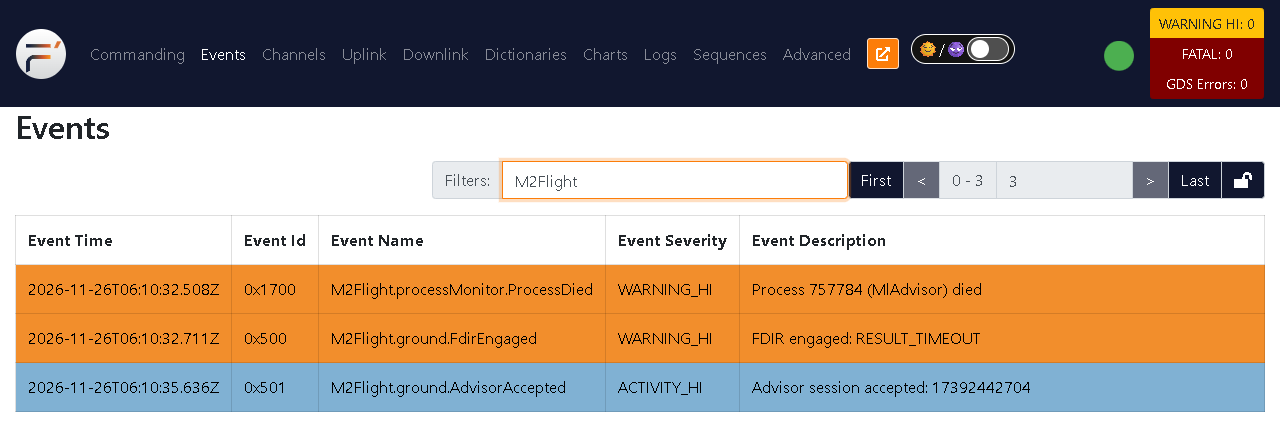
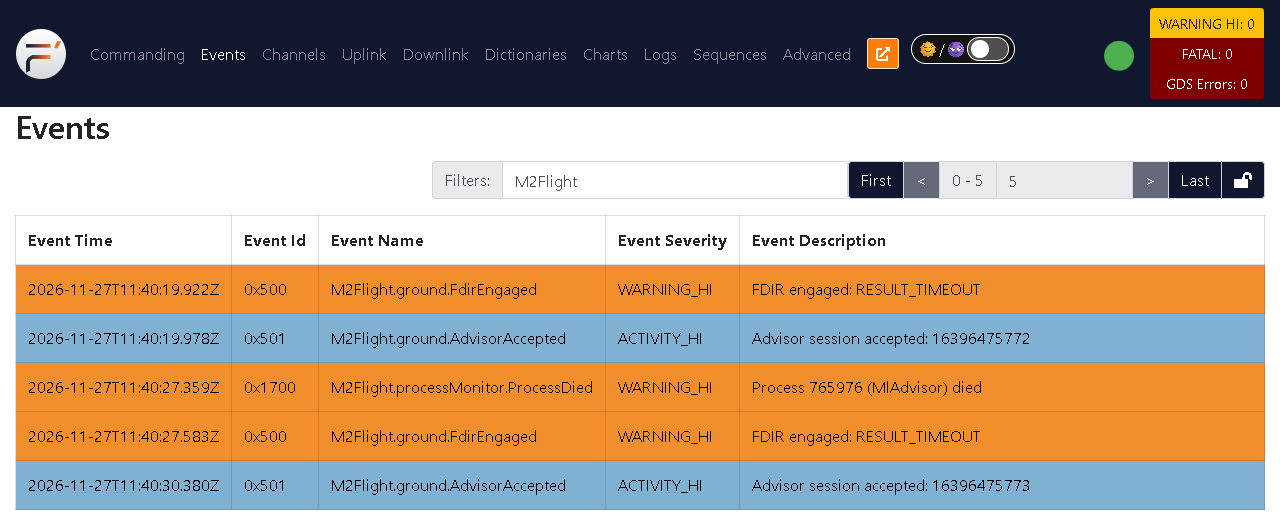
Refresh both QNX Codelabs at a verified commit (D94, I-99)
Pin the Ref and ADCS Codelabs to 752c5d4, which both refreshed runs
used, and replace the screenshots from those runs. Explain the
first-boot disk message, leftover GDS cleanup and the update-on-change
baseline channels, link the MathComponent adoption, and drop the E11
prerequisite now that the submission leaves native KVM out.

diff --git a/docs/codelab/fprime-ref-on-qnx/fprime-ref-on-qnx.md b/docs/codelab/fprime-ref-on-qnx/fprime-ref-on-qnx.md
@@ -15,11 +15,11 @@ feedback_link: https://github.com/qnx/codelabs/issues
 ## Overview
 Duration: 3:00
 
-**Draft rehearsal** ran on 2026-11-26 at fprime-qnx commit `37db15be76f60b5c5084032d9ec1325be0885439` with QNX SDP 8.0.6, Ubuntu 24.04 under WSL2, and a QNX 8.0.0 x86-64 QEMU/KVM guest. Use the Codelab review checkout for its updated GDS checks.
+**Last verified** on 2026-11-27 at fprime-qnx commit `752c5d4d7786767744440089a1e2224db7e9e145` with QNX SDP 8.0.6, Ubuntu 24.04 under WSL2, and a QNX 8.0.0 x86-64 QEMU/KVM guest.
 
 [F Prime](https://github.com/nasa/fprime) is the open-source flight software framework from NASA's Jet Propulsion Laboratory. Its `Ref` deployment is the reference application that ships with the framework: a set of components connected into a topology, driven by rate groups, and controlled from the F Prime ground data system (GDS).
 
-In this codelab you take the upstream `Ref` from the pinned F Prime release, apply a small adoption patch, cross-build it for QNX 8.0 with the [fprime-qnx](https://github.com/D1349375/fprime-qnx/tree/37db15be76f60b5c5084032d9ec1325be0885439) platform library, and run it in a QNX 8.0 x86-64 guest under QEMU/KVM. Then you send a command from the GDS on your Linux host and watch the answer come back from QNX.
+In this codelab you take the upstream `Ref` from the pinned F Prime release, apply a small adoption patch, cross-build it for QNX 8.0 with the [fprime-qnx](https://github.com/D1349375/fprime-qnx/tree/752c5d4d7786767744440089a1e2224db7e9e145) platform library, and run it in a QNX 8.0 x86-64 guest under QEMU/KVM. Then you send a command from the GDS on your Linux host and watch the answer come back from QNX.
 
 ### What you'll build
 
@@ -49,13 +49,13 @@ F Prime on QNX is an independent project. This exercise covers a QNX 8.0.0 x86-6
 ## System Set Up
 Duration: 15:00
 
-The project keeps its host setup instructions in one place, the [fprime-qnx host setup guide](https://github.com/D1349375/fprime-qnx/blob/37db15be76f60b5c5084032d9ec1325be0885439/docs/en/host-setup.md). Follow it for the package list, the guest network and the QNX SDK. This step summarizes what it sets up and how to check each part.
+The project keeps its host setup instructions in one place, the [fprime-qnx host setup guide](https://github.com/D1349375/fprime-qnx/blob/752c5d4d7786767744440089a1e2224db7e9e145/docs/en/host-setup.md). Follow it for the package list, the guest network and the QNX SDK. This step summarizes what it sets up and how to check each part.
 
 Run every command in this codelab in an Ubuntu 24.04 shell. Keep the checkout on the Linux filesystem (for example under `$HOME`), not on a Windows drive mounted under `/mnt`. On Windows, use Ubuntu 24.04 under [WSL](https://learn.microsoft.com/en-us/windows/wsl/install) version `2` with [systemd enabled](https://learn.microsoft.com/en-us/windows/wsl/systemd).
 
 ### Linux tools, KVM and the guest network
 
-Install the packages listed under [Linux tools and guest network](https://github.com/D1349375/fprime-qnx/blob/37db15be76f60b5c5084032d9ec1325be0885439/docs/en/host-setup.md#linux-tools-and-guest-network). They include the compilers and build tools, Python, the SSH client, QEMU and libvirt.
+Install the packages listed under [Linux tools and guest network](https://github.com/D1349375/fprime-qnx/blob/752c5d4d7786767744440089a1e2224db7e9e145/docs/en/host-setup.md#linux-tools-and-guest-network). They include the compilers and build tools, Python, the SSH client, QEMU and libvirt.
 
 The QNX guest gets its address from the libvirt `default` network and reaches your host through the `virbr0` bridge. Start that network and allow the QEMU bridge helper to use `virbr0` as shown in the [QSTI on QEMU using WSL codelab](https://qnx.github.io/codelabs/qsti-qemu-on-wsl/index.html). The same steps apply to native Ubuntu.
 
@@ -69,7 +69,7 @@ ip -brief address show virbr0
 
 ### QNX SDP 8.0
 
-Install QNX SDP 8.0 with the x86-64 target through QNX Software Center, as described under [QNX SDK and F Prime tools](https://github.com/D1349375/fprime-qnx/blob/37db15be76f60b5c5084032d9ec1325be0885439/docs/en/host-setup.md#qnx-sdk-and-f-prime-tools). The project was verified with SDP 8.0.6. The installation must provide `qcc`, `q++` and `mkqnximage`. The examples assume the location `$HOME/qnx800`.
+Install QNX SDP 8.0 with the x86-64 target through QNX Software Center, as described under [QNX SDK and F Prime tools](https://github.com/D1349375/fprime-qnx/blob/752c5d4d7786767744440089a1e2224db7e9e145/docs/en/host-setup.md#qnx-sdk-and-f-prime-tools). The project was verified with SDP 8.0.6. The installation must provide `qcc`, `q++` and `mkqnximage`. The examples assume the location `$HOME/qnx800`.
 
 ```bash
 source "$HOME/qnx800/qnxsdp-env.sh"
@@ -89,12 +89,12 @@ Duration: 10:00
 
 ### Clone the port at a known revision
 
-The repository pins upstream F Prime v4.4.2 as a Git submodule. Fetch the public rehearsal base in Ubuntu. If you are reviewing the Codelab in the project PR, use that checkout and run only the submodule and revision commands.
+The repository pins upstream F Prime v4.4.2 as a Git submodule. Clone it in Ubuntu at the revision this codelab was verified with.
 
 ```bash
 git clone --no-checkout https://github.com/D1349375/fprime-qnx.git
 cd fprime-qnx
-git checkout --detach 37db15be76f60b5c5084032d9ec1325be0885439
+git checkout --detach 752c5d4d7786767744440089a1e2224db7e9e145
 git submodule update --init --recursive
 git rev-parse HEAD
 git submodule status --recursive
@@ -102,7 +102,7 @@ git submodule status --recursive
 
 ### Install the F Prime tools
 
-From the repository root, create the Python virtual environment and install the F Prime tools pinned by the submodule, following [QNX SDK and F Prime tools](https://github.com/D1349375/fprime-qnx/blob/37db15be76f60b5c5084032d9ec1325be0885439/docs/en/host-setup.md#qnx-sdk-and-f-prime-tools). The examples assume the environment at `$HOME/.venvs/fprime-qnx`.
+From the repository root, create the Python virtual environment and install the F Prime tools pinned by the submodule, following [QNX SDK and F Prime tools](https://github.com/D1349375/fprime-qnx/blob/752c5d4d7786767744440089a1e2224db7e9e145/docs/en/host-setup.md#qnx-sdk-and-f-prime-tools). The examples assume the environment at `$HOME/.venvs/fprime-qnx`.
 
 Confirm that the QNX and F Prime tools are on your `PATH`:
 
@@ -122,11 +122,11 @@ source "$HOME/.venvs/fprime-qnx/bin/activate"
 ## What Ref Changes for QNX
 Duration: 5:00
 
-Before building, look at how little an existing deployment has to change. The repository keeps the platform support in a library, `FprimeQnx`, and keeps the deployment changes in one patch, [`adoption/ref-qnx.patch`](https://github.com/D1349375/fprime-qnx/blob/37db15be76f60b5c5084032d9ec1325be0885439/adoption/ref-qnx.patch).
+Before building, look at how little an existing deployment has to change. The repository keeps the platform support in a library, `FprimeQnx`, and keeps the deployment changes in one patch, [`adoption/ref-qnx.patch`](https://github.com/D1349375/fprime-qnx/blob/752c5d4d7786767744440089a1e2224db7e9e145/adoption/ref-qnx.patch).
 
 ### 1. Register the platform library
 
-The F Prime project file [`adoption/settings.ini`](https://github.com/D1349375/fprime-qnx/blob/37db15be76f60b5c5084032d9ec1325be0885439/adoption/settings.ini) keeps the framework on the pinned release and adds `FprimeQnx` as a library:
+The F Prime project file [`adoption/settings.ini`](https://github.com/D1349375/fprime-qnx/blob/752c5d4d7786767744440089a1e2224db7e9e145/adoption/settings.ini) keeps the framework on the pinned release and adds `FprimeQnx` as a library:
 
 ```ini
 [fprime]
@@ -147,7 +147,7 @@ Upstream `Ref` uses `Svc.LinuxTimer` to start its rate groups. The patch changes
 +  instance linuxTimer: Svc.QnxTimer base id 0x10024000
 ```
 
-[`Svc.QnxTimer`](https://github.com/D1349375/fprime-qnx/blob/37db15be76f60b5c5084032d9ec1325be0885439/FprimeQnx/Svc/QnxTimer/QnxTimer.fpp) creates a periodic POSIX timer on `CLOCK_MONOTONIC` that delivers a QNX pulse to a private channel. Each pulse produces one `CycleOut` call to the rate group driver.
+[`Svc.QnxTimer`](https://github.com/D1349375/fprime-qnx/blob/752c5d4d7786767744440089a1e2224db7e9e145/FprimeQnx/Svc/QnxTimer/QnxTimer.fpp) creates a periodic POSIX timer on `CLOCK_MONOTONIC` that delivers a QNX pulse to a private channel. Each pulse produces one `CycleOut` call to the rate group driver.
 
 ### 3. Leave out a component the target cannot build
 
@@ -155,7 +155,7 @@ The upstream `Ref` also contains `Svc.WasmSequencer`, which needs a Rust toolcha
 
 ### Generate the patched Ref
 
-The script [`scripts/import-ref.sh`](https://github.com/D1349375/fprime-qnx/blob/37db15be76f60b5c5084032d9ec1325be0885439/scripts/import-ref.sh) copies `Ref` from the pinned F Prime submodule into `adoption/Ref` and applies the patch:
+The script [`scripts/import-ref.sh`](https://github.com/D1349375/fprime-qnx/blob/752c5d4d7786767744440089a1e2224db7e9e145/scripts/import-ref.sh) copies `Ref` from the pinned F Prime submodule into `adoption/Ref` and applies the patch:
 
 ```bash
 bash scripts/import-ref.sh
@@ -325,7 +325,7 @@ In the GDS terminal, press **Ctrl+C**. Keep the guest running for the script che
 ## Check the Round Trip with a Script
 Duration: 5:00
 
-The repository automates the same round trip in [`scripts/ref-gds-check.sh`](https://github.com/D1349375/fprime-qnx/blob/37db15be76f60b5c5084032d9ec1325be0885439/scripts/ref-gds-check.sh). It starts the GDS without the web UI, copies `Ref` to the guest, starts the telemetry and event listeners, and launches `Ref`. It waits for telemetry before sending `CMD_NO_OP` with `fprime-cli`.
+The repository automates the same round trip in [`scripts/ref-gds-check.sh`](https://github.com/D1349375/fprime-qnx/blob/752c5d4d7786767744440089a1e2224db7e9e145/scripts/ref-gds-check.sh). It starts the GDS without the web UI, copies `Ref` to the guest, starts the telemetry and event listeners, and launches `Ref`. It waits for telemetry before sending `CMD_NO_OP` with `fprime-cli`.
 
 Run it against the guest you booted, with the same environment variables:
 
@@ -365,11 +365,13 @@ Check that no GDS processes are left over, because they can hold the TCP port an
 pgrep -af 'fprime_gds|fprime-gds'
 ```
 
+If a GDS process from this codelab is still listed a few seconds after **Ctrl+C**, press **Ctrl+C** again in the GDS terminal or stop that process by its PID with `kill`. The repository scripts stop their own GDS processes, and send `SIGKILL` to any that do not exit within 10 seconds of `SIGTERM`.
+
 The image directory, the SSH key and the log directories stay on your machine. Delete them when you no longer need them.
 
 ### Rebuild everything from scratch
 
-After you stop the manual guest, [`scripts/clean-rebuild.sh`](https://github.com/D1349375/fprime-qnx/blob/37db15be76f60b5c5084032d9ec1325be0885439/scripts/clean-rebuild.sh) clones the checkout into a new work directory, generates and builds `Ref`, creates a fresh QNX image with a new SSH key, and runs the same round-trip check:
+After you stop the manual guest, [`scripts/clean-rebuild.sh`](https://github.com/D1349375/fprime-qnx/blob/752c5d4d7786767744440089a1e2224db7e9e145/scripts/clean-rebuild.sh) clones the checkout into a new work directory, generates and builds `Ref`, creates a fresh QNX image with a new SSH key, and runs the same round-trip check:
 
 ```bash
 scripts/clean-rebuild.sh "$(mktemp -d \"$HOME/fprime-qnx-evidence/ref-clean.XXXXXXXX\")"
@@ -384,7 +386,7 @@ Duration: 3:00
 
 ### The guest never gets an address
 
-Check that the libvirt `default` network is active with `virsh -c qemu:///system net-list --all`. If it is inactive, start it using the [host setup guide](https://github.com/D1349375/fprime-qnx/blob/37db15be76f60b5c5084032d9ec1325be0885439/docs/en/host-setup.md#linux-tools-and-guest-network).
+Check that the libvirt `default` network is active with `virsh -c qemu:///system net-list --all`. If it is inactive, start it using the [host setup guide](https://github.com/D1349375/fprime-qnx/blob/752c5d4d7786767744440089a1e2224db7e9e145/docs/en/host-setup.md#linux-tools-and-guest-network).
 
 If the network is active, inspect the guest serial log.
 
@@ -392,7 +394,7 @@ If the network is active, inspect the guest serial log.
 tail -n 30 "$QNX_IMAGE_DIR/output/qemu.out"
 ```
 
-If the log reports `Unable to access /dev/hd0` or `No system file system, giving up`, keep a copy before restarting the same image. Wait for SSH again before starting GDS.
+If the log reports `Unable to access /dev/hd0` or `No system file system, giving up`, the disk driver started after the startup script stopped waiting for it. The image itself is fine. Keep a copy of the log, then restart the same image and wait for SSH again before starting GDS. The repository scripts, such as `scripts/clean-rebuild.sh`, detect this message and restart the image once on their own.
 
 ```bash
 cp "$QNX_IMAGE_DIR/output/qemu.out" "$REF_RUN/first-boot.log"
@@ -431,7 +433,7 @@ The same four steps apply to an existing F Prime deployment:
 3. Change rate group timers of type `Svc.LinuxTimer` to `Svc.QnxTimer` and keep their cycle output connections.
 4. Review platform-specific drivers and components, then run your own GDS, hardware and integration checks.
 
-The [adoption guide](https://github.com/D1349375/fprime-qnx/blob/37db15be76f60b5c5084032d9ec1325be0885439/docs/en/adopt.md) explains each step.
+The [adoption guide](https://github.com/D1349375/fprime-qnx/blob/752c5d4d7786767744440089a1e2224db7e9e145/docs/en/adopt.md) explains each step. The project applied the same steps to the F Prime [MathComponent tutorial](https://github.com/fprime-community/fprime-tutorial-math-component), an existing deployment with its own components, ports, types and parameter. Its [two-line patch](https://github.com/D1349375/fprime-qnx/blob/752c5d4d7786767744440089a1e2224db7e9e145/adoption/math-qnx.patch) registers the library and switches the timer, and the [reproduction steps](https://github.com/D1349375/fprime-qnx/blob/752c5d4d7786767744440089a1e2224db7e9e145/docs/en/reproduce.md#mathcomponent-tutorial-adoption) run its commands and unit tests on the QNX guest.
 
 ### Know the limits
 
@@ -440,10 +442,10 @@ The [adoption guide](https://github.com/D1349375/fprime-qnx/blob/37db15be76f60b5
 * `Ref` on QNX omits the Rust-based `WasmSequencer` and keeps `cmdSeq`.
 * Repeated tests in the nested WSL2 and QEMU setup occasionally missed a timer cycle. Native Linux/KVM and physical timing coverage remain open.
 
-The [limitations page](https://github.com/D1349375/fprime-qnx/blob/37db15be76f60b5c5084032d9ec1325be0885439/docs/en/limitations.md) has the full list.
+The [limitations page](https://github.com/D1349375/fprime-qnx/blob/752c5d4d7786767744440089a1e2224db7e9e145/docs/en/limitations.md) has the full list.
 
 ### Go further
 
-* The [ADCS reference](https://github.com/D1349375/fprime-qnx/tree/37db15be76f60b5c5084032d9ec1325be0885439/FprimeQnxReference) splits flight software and an advisor into two processes that use native QNX message passing and SLM supervision. Its GDS check shows a fault, the recovery and a supervised restart. [Reproduction guide](https://github.com/D1349375/fprime-qnx/blob/37db15be76f60b5c5084032d9ec1325be0885439/docs/en/reproduce.md)
+* The [ADCS reference](https://github.com/D1349375/fprime-qnx/tree/752c5d4d7786767744440089a1e2224db7e9e145/FprimeQnxReference) splits flight software and an advisor into two processes that use native QNX message passing and SLM supervision. Its GDS check shows a fault, the recovery and a supervised restart. [Reproduction guide](https://github.com/D1349375/fprime-qnx/blob/752c5d4d7786767744440089a1e2224db7e9e145/docs/en/reproduce.md)
 * Follow the platform discussion with the F Prime maintainers in [nasa/fprime discussion #6436](https://github.com/nasa/fprime/discussions/6436).
 * Read the F Prime [platform porting guide](https://fprime.jpl.nasa.gov/v4.4.0/docs/how-to/integrate/porting-guide/) and the [GDS documentation](https://fprime.jpl.nasa.gov/v4.4.0/docs/user-manual/overview/gds-introduction/).

diff --git a/docs/codelab/fprime-adcs-fault-recovery-on-qnx/fprime-adcs-fault-recovery-on-qnx.md b/docs/codelab/fprime-adcs-fault-recovery-on-qnx/fprime-adcs-fault-recovery-on-qnx.md
@@ -15,7 +15,7 @@ feedback_link: https://github.com/qnx/codelabs/issues
 ## Overview
 Duration: 2:00
 
-**Draft rehearsal** used the runtime at fprime-qnx commit `37db15be76f60b5c5084032d9ec1325be0885439` on 2026-11-26 with QNX SDP 8.0.6 and a QNX 8.0.0 x86-64 QEMU/KVM guest under WSL2. Use the Codelab review checkout for its updated GDS checks.
+**Last verified** on 2026-11-27 at fprime-qnx commit `752c5d4d7786767744440089a1e2224db7e9e145` with QNX SDP 8.0.6 and a QNX 8.0.0 x86-64 QEMU/KVM guest under WSL2.
 
 The reference deployment simulates an attitude determination and control system (ADCS). `FlightSW` produces an attitude estimate and selects the control source. `MlAdvisor` runs in a separate QNX process and supplies advice through native QNX message passing. This exercise uses the built-in deterministic advisor to make the restart scenario reproducible.
 
@@ -27,20 +27,20 @@ Stop the advisor in a disposable guest and follow the recovery in F Prime's Grou
 ## System Set Up
 Duration: 15:00
 
-Install the Ubuntu packages, enable the libvirt `default` network with `virbr0`, and install your licensed QNX SDP through QNX Software Center. Use the Ubuntu filesystem for the build and the guest image. [Host setup](https://github.com/D1349375/fprime-qnx/blob/37db15be76f60b5c5084032d9ec1325be0885439/docs/en/host-setup.md)
+Install the Ubuntu packages, enable the libvirt `default` network with `virbr0`, and install your licensed QNX SDP through QNX Software Center. Use the Ubuntu filesystem for the build and the guest image. [Host setup](https://github.com/D1349375/fprime-qnx/blob/752c5d4d7786767744440089a1e2224db7e9e145/docs/en/host-setup.md)
 
-Run these commands in Ubuntu to fetch the public rehearsal base. If you are reviewing the Codelab in the project PR, use that checkout and run only the submodule and revision commands.
+Run these commands in Ubuntu to clone the repository at the revision this codelab was verified with.
 
 ```bash
 git clone --no-checkout https://github.com/D1349375/fprime-qnx.git
 cd fprime-qnx
-git checkout --detach 37db15be76f60b5c5084032d9ec1325be0885439
+git checkout --detach 752c5d4d7786767744440089a1e2224db7e9e145
 git submodule update --init --recursive
 git rev-parse HEAD
 git submodule status --recursive
 ```
 
-Install the F Prime tools pinned by the submodule. In each Ubuntu terminal you use for the build or runner, activate the SDK and virtual environment. Substitute your installation paths where needed. [QNX SDK and F Prime tools](https://github.com/D1349375/fprime-qnx/blob/37db15be76f60b5c5084032d9ec1325be0885439/docs/en/host-setup.md#qnx-sdk-and-f-prime-tools)
+Install the F Prime tools pinned by the submodule. In each Ubuntu terminal you use for the build or runner, activate the SDK and virtual environment. Substitute your installation paths where needed. [QNX SDK and F Prime tools](https://github.com/D1349375/fprime-qnx/blob/752c5d4d7786767744440089a1e2224db7e9e145/docs/en/host-setup.md#qnx-sdk-and-f-prime-tools)
 
 ```bash
 source "$HOME/qnx800/qnxsdp-env.sh"
@@ -75,18 +75,27 @@ The two executables should be x86-64 ELF files. The GDS runner loads this build'
 ## Start GDS and Record the Baseline
 Duration: 5:00
 
-From the repository root, run the interactive check in a terminal that accepts input. Keep the terminal open. The runner creates a QNX guest, starts GDS, deploys the two processes and sends `CdhCore.cmdDisp.CMD_NO_OP`. It prints the path to an evidence directory before starting the guest. [Interactive runner](https://github.com/D1349375/fprime-qnx/blob/37db15be76f60b5c5084032d9ec1325be0885439/scripts/gds-check.sh)
+From the repository root, run the interactive check in a terminal that accepts input. Keep the terminal open. The runner creates a QNX guest, starts GDS, deploys the two processes and sends `CdhCore.cmdDisp.CMD_NO_OP`. It prints the path to an evidence directory before starting the guest. [Interactive runner](https://github.com/D1349375/fprime-qnx/blob/752c5d4d7786767744440089a1e2224db7e9e145/scripts/gds-check.sh)
 
 ```bash
 mkdir -p "$HOME/fprime-qnx-evidence"
 GDS_EVIDENCE_ROOT="$HOME/fprime-qnx-evidence" scripts/gds-check.sh --ui
 ```
 
-Wait for `Open Events, then press Enter here to stop the advisor.` Open [http://localhost:5000](http://localhost:5000/) in your browser. On WSL2, open the same URL in the Windows browser. Leave the terminal paused while you establish the baseline.
+The browser shows only the events and channel samples that arrive while the page is open. After the runner prints `GDS evidence:`, open [http://localhost:5000](http://localhost:5000/) in your browser and reload it until GDS answers, which happens before FlightSW starts. On WSL2, open the same URL in the Windows browser. Go to **Channels** and enter `M2Flight.ground` in **Filters**.
+
+Wait for `Open Events, then press Enter here to stop the advisor.` Leave the terminal paused while you establish the baseline.
 
 Open **Events** and enter `CdhCore.cmdDisp` in **Filters**. Look for `CdhCore.cmdDisp.NoOpReceived` and `CdhCore.cmdDisp.OpCodeCompleted`. If you opened the page after those events arrived, go to **Commanding**, select `CdhCore.cmdDisp.CMD_NO_OP` and click **Send Command**. Return to **Events** to see the response.
 
-In **Channels**, enter `M2Flight.ground` in **Filters**. Wait for values for `ControlSource` and `AdvisorSession`. Note the session shown alongside `ControlSource = ML`. The `ML` enum label identifies advisor-derived control in this deployment.
+In **Channels**, with `M2Flight.ground` in **Filters**, read the values of `ControlSource` and `AdvisorSession`. Note the session shown alongside `ControlSource = ML`. The `ML` enum label identifies advisor-derived control in this deployment.
+
+FlightSW sends these two channels only when they change. If the page opened after FlightSW started and they stay empty, read their latest values from the runner's capture in a second Ubuntu terminal. Keep that terminal for the later steps.
+
+```bash
+read -r -p 'GDS evidence directory: ' RUN
+grep -E 'ControlSource|AdvisorSession' "$RUN/capture/channel.log" | tail -n 2
+```
 
 ![Channels at the first pause show ML and the original advisor session](img/adcs-baseline.png)
 
@@ -101,7 +110,7 @@ Read the recovery events in timestamp order.
 2. `M2Flight.ground.FdirEngaged` marks the handover to deterministic FDIR.
 3. A later `M2Flight.ground.AdvisorAccepted` identifies the fresh session that FlightSW accepted.
 
-Check **Event Time** if the table order has changed. The event list can also show session changes from the original process. Match the post-fallback `AdvisorAccepted` to the replacement PID in the next step.
+Check **Event Time** if the table order has changed. Rows before `ProcessDied` can include an `FdirEngaged` and `AdvisorAccepted` pair from the original process, for example when its first session times out during startup. Match the `AdvisorAccepted` after `ProcessDied` to the replacement PID in the next step.
 
 ![Events show ProcessDied, FdirEngaged and AdvisorAccepted for the replacement session](img/adcs-recovery.png)
 
@@ -112,10 +121,10 @@ In **Channels**, read `M2Flight.ground.ControlSource` and `M2Flight.ground.Advis
 
 ![Channels after recovery show ML with the replacement's session](img/adcs-rejoined.png)
 
-While the runner is paused, open a second Ubuntu terminal. Paste the directory printed after `GDS evidence:` when prompted.
+While the runner is paused, use the second Ubuntu terminal, or open one now and paste the directory printed after `GDS evidence:` when prompted.
 
 ```bash
-read -r -p 'GDS evidence directory: ' RUN
+[ -n "${RUN:-}" ] || read -r -p 'GDS evidence directory: ' RUN
 cat "$RUN/sessions.csv"
 awk -F, '$3 == "M2Flight.ground.ControlSource" && $5 != previous {
     print $5
@@ -123,9 +132,9 @@ awk -F, '$3 == "M2Flight.ground.ControlSource" && $5 != previous {
 }' "$RUN/capture/channel.log"
 ```
 
-`sessions.csv` lists `PID,session` pairs. Find the PID from `ProcessDied` and the row for the session currently shown in `AdvisorSession`. The current session must have a different PID. Match that session to its `AdvisorAccepted` event. The `ControlSource` capture should contain `ML → FDIR → ML` in that order.
+`sessions.csv` lists `PID,session` pairs. Find the PID from `ProcessDied` and the row for the session currently shown in `AdvisorSession`. The current session must have a different PID. Match that session to its `AdvisorAccepted` event. The `ControlSource` capture should contain `ML → FDIR → ML` in that order. A session change of the original process before the stop adds another `FDIR → ML` pair ahead of it.
 
-The replacement PID shows that SLM restarted the process. The fresh session in the event and channels shows that FlightSW accepted the replacement's advice. [SLM configuration template](https://github.com/D1349375/fprime-qnx/blob/37db15be76f60b5c5084032d9ec1325be0885439/FprimeQnxReference/qnx/m3-slm.xml.in) · [QNX SLM documentation](https://www.qnx.com/developers/docs/8.0/com.qnx.doc.neutrino.utilities/topic/s/slm.html)
+The replacement PID shows that SLM restarted the process. The fresh session in the event and channels shows that FlightSW accepted the replacement's advice. [SLM configuration template](https://github.com/D1349375/fprime-qnx/blob/752c5d4d7786767744440089a1e2224db7e9e145/FprimeQnxReference/qnx/m3-slm.xml.in) · [QNX SLM documentation](https://www.qnx.com/developers/docs/8.0/com.qnx.doc.neutrino.utilities/topic/s/slm.html)
 
 ## Finish the Checks and Stop the Guest
 Duration: 3:00
@@ -157,4 +166,4 @@ Duration: 3:00
 - **Port 5000 is busy** Stop the GDS session you no longer need or run `GDS_GUI_PORT=5001 scripts/gds-check.sh --ui` with the same evidence directory setting. Open the matching web port. The runner selects a separate TCP port for the guest connection.
 - **The page stops updating after the second Enter** The reconnect step restarts GDS and then stops the guest. Inspect `capture/event.log` and `capture/channel.log` for the recorded events and telemetry.
 
-The codelab covers the simulated ADCS fault sequence on a QNX x86-64 guest. For the learned advisor, model replay, or deadline validation, follow the separate target checks. [Architecture](https://github.com/D1349375/fprime-qnx/blob/37db15be76f60b5c5084032d9ec1325be0885439/docs/en/architecture.md) · [Reproduction guide](https://github.com/D1349375/fprime-qnx/blob/37db15be76f60b5c5084032d9ec1325be0885439/docs/en/reproduce.md#adcs-ground-system)
+The codelab covers the simulated ADCS fault sequence on a QNX x86-64 guest. For the learned advisor, model replay, or deadline validation, follow the separate target checks. [Architecture](https://github.com/D1349375/fprime-qnx/blob/752c5d4d7786767744440089a1e2224db7e9e145/docs/en/architecture.md) · [Reproduction guide](https://github.com/D1349375/fprime-qnx/blob/752c5d4d7786767744440089a1e2224db7e9e145/docs/en/reproduce.md#adcs-ground-system)

diff --git a/docs/zh/實作迭代紀錄.md b/docs/zh/實作迭代紀錄.md
@@ -493,3 +493,14 @@
 - **Environment and commands** Ubuntu 24.04.5 under WSL2, Bash 5.2.21, util-linux `setsid`. A host fixture sources the helper under `set -euo pipefail` and starts groups with `setsid --wait`.
 - **Observed results** With the old pattern, the TERM-ignoring child was still alive 5 seconds after cleanup returned. With the helper, 5 of 5 fixture runs passed: the TERM-ignoring child is gone after the grace period and the escalation message is printed, a cooperative group stops on SIGTERM without a message, and an empty or missing PID is a no-op. The target runs of the refreshed Codelabs are in I-99.
 - **Evidence and next** The fixture and the old-pattern reproduction are in WSL `/tmp/stopgrp-fixture.sh` and `/tmp/oldpat.sh`, with copies under `~/evidence/Codelabs/2026-11-27/`. Whether upstream `fprime-gds` should exit on SIGTERM in this state has not been checked against current upstream, so nothing is reported upstream.
+
+### I-99 · Refresh both QNX Codelabs (2026-11-27)
+
+- **Objective and source** Pin both Codelabs to a revision that contains the I-92 GDS check repairs, the I-96 and I-97 guest start and lease fixes and the I-98 GDS shutdown fix, under [D94](決策與變更紀錄.md#d94--pin-the-codelabs-to-a-verified-commit-and-leave-native-kvm-out-of-the-submission-2026-11-27). Each run followed the Codelab commands from a fresh `git clone` of GitHub at `752c5d4d7786767744440089a1e2224db7e9e145`, with F Prime `f22ce8f2f2943e641d454e9daa7f129e6c878d32` and GoogleTest `58d77fa8070e8cec2dc1ed015d66b454c8d78850`.
+- **Environment** Ubuntu 24.04.5 under WSL2, QNX SDP 8.0.6, `qcc` GCC 12.2.0, F Prime tools and GDS 4.4.0, QNX 8.0.0 x86-64 guests on QEMU 8.2.2 with KVM, Windows Edge in headless mode for the GDS pages. Native Linux/KVM, AArch64 and physical hardware remain outside this run.
+- **Ref** `scripts/import-ref.sh`, generate and build produced the x86-64 `Ref` and its dictionary. A guest built and booted with the Codelab's `mkqnximage` commands answered `uname -a` on the first boot. With the GDS page open on **Channels** before `Ref` started, `Ref.rateGroup1Comp` showed samples. `CMD_NO_OP` sent from **Commanding** returned `OpCodeDispatched`, `NoOpReceived` and `OpCodeCompleted`. `scripts/ref-gds-check.sh` then passed its three checks on the same guest. An earlier pass at `30a635f` gave the same results.
+- **ADCS** `FlightSW` and `MlAdvisor` built for `qnx-x86_64`. Four runs of `scripts/gds-check.sh --ui` each exited 0 with all seven checks passing. Run 1 waited about ten minutes at the first pause, because the Enter sent by the browser driver was taken as a redirection by `cmd.exe`. During that wait the original advisor changed sessions several times after `RESULT_TIMEOUT`, and the capture recorded more `FDIR → ML` pairs before the stop. Run 2 cropped the recovery screenshot. In run 3 the page opened after FlightSW started, so `ControlSource` and `AdvisorSession`, which FlightSW sends only on change, never appeared in the page. Run 4 opened the page as soon as GDS answered. It showed `ML` with the original session, `ProcessDied` for the original PID, `FdirEngaged`, `AdvisorAccepted` for a new session, and `ML` with that session. `sessions.csv` mapped that session to a new PID, and the capture recorded `ML → FDIR → ML`.
+- **GDS shutdown in target runs** In ADCS runs 1, 2 and 3, the GDS process group of the reconnect phase did not stop within 10 seconds of `SIGTERM` after FlightSW shut down, and the I-98 helper sent `SIGKILL`. Run 4 stopped without escalation. No GDS or QEMU process remained after any run. The I-97 `math-gds-check.sh` run had left a helper running before this fix.
+- **Documentation changes** Both Codelabs carry a **Last verified** line for `752c5d4` and point every project link at it. The Ref Codelab explains the first-boot disk message, notes that the scripts restart once, adds a cleanup step for a GDS process left after Ctrl+C and links the MathComponent adoption. The ADCS Codelab asks the reader to open GDS before FlightSW starts, gives a capture-based way to read the baseline, and explains extra `FdirEngaged` and `AdvisorAccepted` rows from the original process. The index drops the E11 prerequisite. The Ref screenshots come from the `752c5d4` Ref run and the ADCS screenshots from ADCS run 4. They show application behavior only, under [D55](決策與變更紀錄.md#d55--limit-public-evidence-to-the-reviewed-release-scope-2026-11-23).
+- **Preview** The rehearsal's QNX `claat` exported both Codelabs. Edge loaded both previews from a local server with the shared QNX scripts: 11 steps and 2 images for Ref, 8 steps and 3 images for ADCS, and every image loaded.
+- **Evidence and next** WSL `~/evidence/Codelabs/2026-11-27/final/` holds the build and driver logs, `run1` to `run4`, the `claat` export, the preview and the browser automation with the screenshots and their hashes. The owner opens one `qnx/codelabs` pull request per tutorial, each changing only its own `markdown/<id>/`. At freeze, recheck the files listed in the Codelab index before keeping this commit.

diff --git a/docs/codelab/README.md b/docs/codelab/README.md
@@ -7,7 +7,7 @@ Each folder is laid out for review in this repository and for later submission u
 | [Run the NASA F Prime Ref Deployment on QNX 8.0 with QEMU](fprime-ref-on-qnx/fprime-ref-on-qnx.md) | Build upstream Ref for a QNX guest, send a NO-OP from GDS, and see both responses and rate group telemetry. |
 | [Observe F Prime ADCS Fault Recovery on QNX 8.0](fprime-adcs-fault-recovery-on-qnx/fprime-adcs-fault-recovery-on-qnx.md) | Follow the stopped advisor, FDIR takeover, SLM replacement, and acceptance of a new advisor session in GDS. |
 
-Both drafts use the pre-freeze rehearsal commit `37db15be76f60b5c5084032d9ec1325be0885439`. The screenshots document that rehearsal. The review branch includes the two GDS check fixes used in the reruns. [Implementation and verification](../zh/實作迭代紀錄.md#i-92--rehearse-both-qnx-codelabs-2026-11-26)
+Both tutorials were last verified on 2026-11-27 at commit `752c5d4d7786767744440089a1e2224db7e9e145`, and the screenshots come from that run. The commit includes the GDS check repairs from the first rehearsal, the guest start and lease fixes and the GDS shutdown fix. [Rehearsal](../zh/實作迭代紀錄.md#i-92--rehearse-both-qnx-codelabs-2026-11-26) · [Refresh](../zh/實作迭代紀錄.md#i-99--refresh-both-qnx-codelabs-2026-11-27)
 
 ## Preview both drafts
 
@@ -26,6 +26,6 @@ Open [Ref preview](http://localhost:8080/fprime-ref-on-qnx/) and [ADCS preview](
 
 ## Freeze and submit
 
-1. Replace the rehearsal SHA in both checkout commands and project links with the full `SUBMISSION_COMMIT` SHA when the submission revision is frozen.
-2. Rerun both tutorials at that revision, apply any verified E11 setup corrections, replace the rehearsal screenshots and add a **Last verified** line with the final SHA and run date. Recheck links, metadata, and both rendered previews.
+1. When the submission revision is frozen, check whether it changes any file the tutorials use: the GDS and guest helper scripts, `scripts/import-ref.sh`, `adoption/ref-qnx.patch`, `FprimeQnx`, `FprimeQnxReference` or the host setup guide. If none changed, the verified commit stays. Otherwise replace the SHA in both checkout commands and project links.
+2. After a SHA change, rerun both tutorials at that revision, replace the screenshots and update the **Last verified** line with the SHA and run date. Recheck links, metadata, and both rendered previews.
 3. The project owner submits one PR per tutorial. Each PR changes only its own `markdown/<id>/` directory in `qnx/codelabs`. Keep `status: draft` during project review. Before publication, set `status: published` and set `published` to the first publication date. [Contribution guide](https://qnx.github.io/codelabs/codelab-to-create-codelab/#0)

diff --git a/docs/zh/決策與變更紀錄.md b/docs/zh/決策與變更紀錄.md
@@ -410,3 +410,10 @@
 - **Rationale and alternatives** The comm helper can block in its own SIGTERM handler, and a leftover helper holds its ports and endpoints for the next run. Sending SIGINT first relies on the same handler. Killing only by process name could hit another user's GDS session. Changing the installed `fprime-gds` would make results depend on a local patch. The grace period keeps the normal shutdown path and its log flushing for a cooperative GDS.
 - **Consequences** A hung helper adds up to 10 seconds to cleanup and prints one message on standard error. The checks and their verdicts are unchanged.
 - **Open verification** The upstream behavior is not attributed beyond the installed 4.4.0 source. See [I-98](實作迭代紀錄.md#i-98--stop-leftover-gds-helpers-after-each-check-2026-11-27).
+
+### D94 · Pin the Codelabs to a verified commit and leave native KVM out of the submission (2026-11-27)
+
+- **Decision** Pin both Codelabs to `752c5d4`, the commit their refreshed runs used, instead of waiting for the frozen submission commit. Keep that pin at freeze unless the freeze changes a file the tutorials use. Run no native Linux/KVM round for the submission, because no native Linux host is available, and keep the existing limited WSL2 and QEMU claim.
+- **Rationale and alternatives** External Codelab pull requests to `qnx/codelabs` wait days for review, so an early, verified submission has a better chance of review before the deadline. A Codelab only needs a revision that reproduces its steps, not the final project revision. Waiting for freeze would leave less than a week for review. A native run would need a separate installation on an external disk or a partitioned internal disk. The internal data disk sits behind Intel RST, and the system disk has little free space, so that setup carries risk and cost for one additional environment. The contest accepts QEMU targets.
+- **Consequences** Both Codelab pull requests can be opened now. A later SHA change needs one rerun of both tutorials and new screenshots. The limitations page keeps native Linux/KVM and physical timing open, and the D71 attribution of missed releases to WSL2 remains an attribution without a native comparison. The E11 prerequisite is removed from the Codelab index.
+- **Open verification** Native Linux/KVM can still be run later if hardware becomes available. See [I-99](實作迭代紀錄.md#i-99--refresh-both-qnx-codelabs-2026-11-27).
